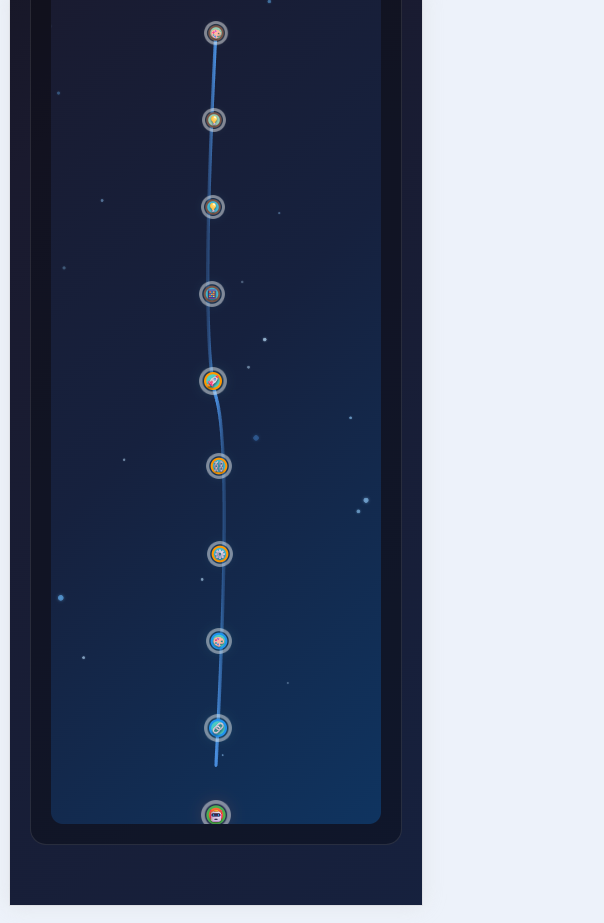
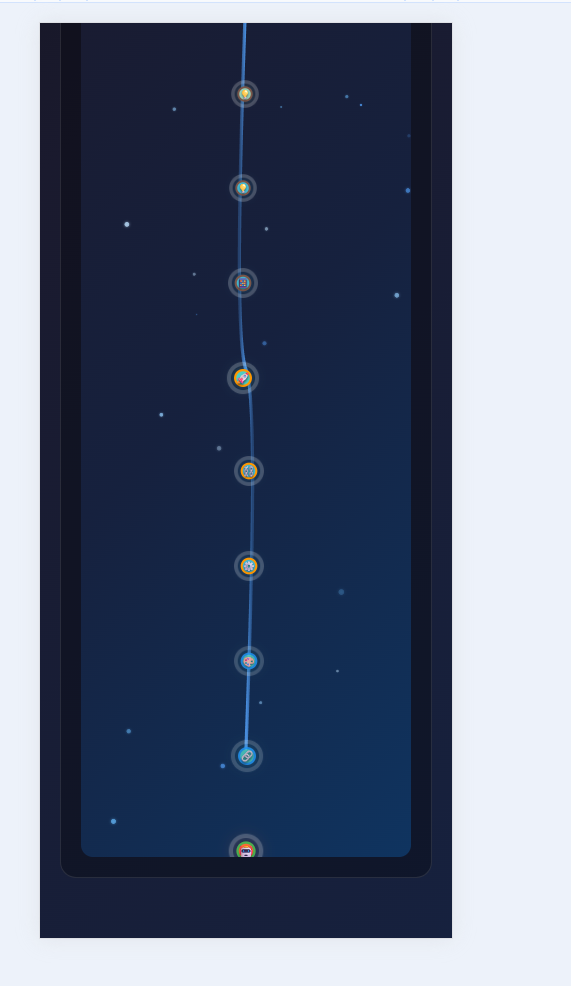
feat: complete Step 2.2.4a final optimization - node distribution algorithm
- Fix mobile timeline node distribution spacing issue
- Optimize node positioning from 0%-100% to 5%-90% range for better connection
- Update calculation: progress = (index / (total - 1)) * 0.85 + 0.05
- Ensure timeline path connects to all nodes on mobile devices
- Prepare for future config-driven architecture with scalable node distribution
- Add comprehensive documentation for future development considerations

🤖 Generated with [Claude Code](https://claude.ai/code)

Changed region(s): [[0.0, 0.0, 0.8039, 1.0]]

diff --git a/src/components/gaming/InteractiveTimeline/InteractiveTimeline.js b/src/components/gaming/InteractiveTimeline/InteractiveTimeline.js
@@ -1735,7 +1735,8 @@ export class InteractiveTimeline extends BaseComponent {
         };
       }
       
-      const progress = total === 1 ? 0.5 : index / (total - 1);
+      // 調整節點分布：讓節點更緊密，不要佔滿整個路徑
+      const progress = total === 1 ? 0.5 : (index / (total - 1)) * 0.85 + 0.05; // 壓縮到路徑的85%，從5%開始
       const point = path.getPointAtLength(pathLength * progress);
       
       // 手機版強制對齊中心線

diff --git a/tasks/task-2.2.4a-year-filter-system-restored.md b/tasks/task-2.2.4a-year-filter-system-restored.md
@@ -119,6 +119,12 @@ yearFilter: {
    - 桌面版保持完整年份篩選功能
    - 響應式設計更加簡潔
 
+4. **節點分布間距問題** - ✅ 最終修正 (2025-09-05 補充)
+   - 節點分布從佔滿整條路徑(0%-100%)調整為緊密分布(5%-90%)
+   - 修正公式：`progress = (index / (total - 1)) * 0.85 + 0.05`
+   - 解決手機版時間軸線條與節點連接問題
+   - 為未來config驅動的大量專案數據預做準備(支援彈性節點分布)
+
 ### 最終技術實現
 
 **容器自適應CSS**
@@ -154,6 +160,15 @@ if (index === total - 1) {
 }
 ```
 
+**節點分布算法優化** ⭐ 關鍵修正
+```javascript
+// 原始分布 (問題)：佔滿整條路徑
+const progress = total === 1 ? 0.5 : index / (total - 1); // 0%-100%
+
+// 優化分布 (解決)：緊密分布在路徑中段
+const progress = total === 1 ? 0.5 : (index / (total - 1)) * 0.85 + 0.05; // 5%-90%
+```
+
 ## 文件更新
 - 完成 InteractiveTimeline.js 手機版自適應調整
 - 年份篩選系統完全穩定運作
@@ -174,9 +189,23 @@ if (index === total - 1) {
 - [x] 最後節點準確置中對齊
 - [x] 容器高度自適應，有充足底部空間
 - [x] 年份篩選功能正常，但不顯示年份文字
+- [x] 時間軸線條與所有節點完美連接 (節點分布算法優化)
+
+## 重要開發筆記
+
+### 未來擴展性考量
+1. **Config驅動專案數據**
+   - 當專案數據超過10個時，現有的節點分布算法已能彈性適應
+   - `progress = (index / (total - 1)) * 0.85 + 0.05` 公式適用於任意數量的專案
+   - 確保節點永遠分布在路徑的5%-90%區間，避免邊界截斷問題
+
+2. **響應式設計原則**
+   - 手機版使用緊密節點分布 + 簡化年份顯示
+   - 桌面版保持完整功能 + 豐富視覺效果
+   - 路徑端點計算考慮SVG viewBox邊界安全距離
 
 ---
 
 **完成時間**: 2025-09-05  
-**測試狀態**: ✅ 全部通過 (包含手機版自適應)  
+**最終測試狀態**: ✅ 全部通過 (包含手機版線條連接)  
 **版本狀態**: 準備提交版控
